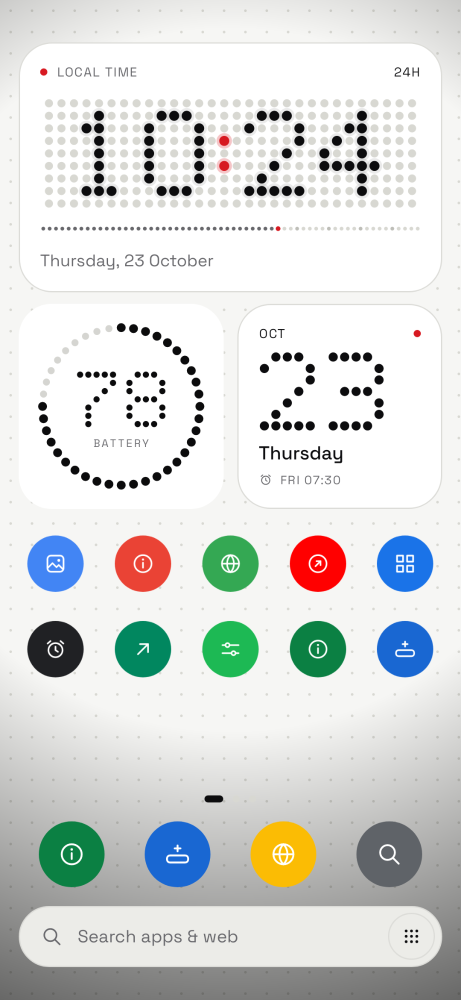
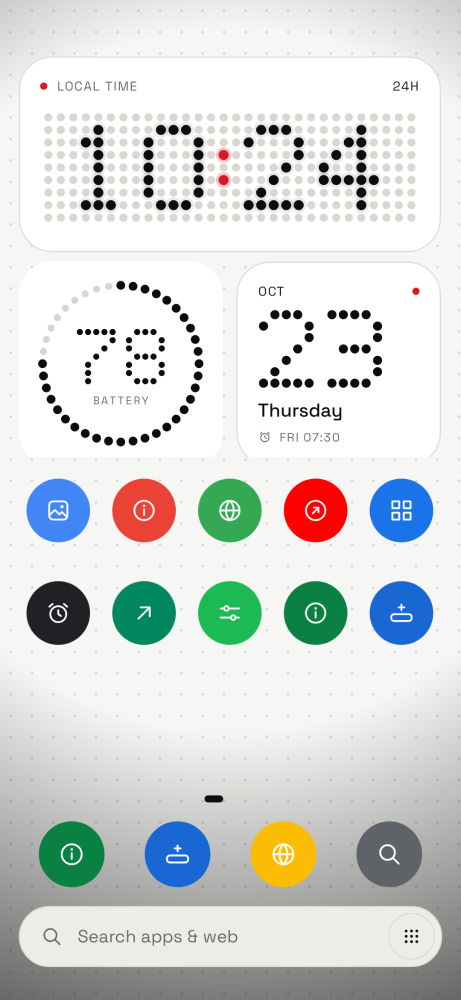
test: fix Paparazzi page fixtures (missing page size, clipped rows) and re-record snapshots

diff --git a/app/src/test/java/com/nothinglauncher/ScreensTest.kt b/app/src/test/java/com/nothinglauncher/ScreensTest.kt
@@ -156,12 +156,12 @@ class ScreensTest {
         val halfLp2 = LinearLayout.LayoutParams(0, ViewGroup.LayoutParams.WRAP_CONTENT, 1f).apply { marginStart = (6 * density).toInt() }
         row.addView(batB.root, halfLp1)
         row.addView(calB.root, halfLp2)
-        pageB.cellLayout.addView(row, CellLayout.LayoutParams(0, 2, columns, 1))
+        pageB.cellLayout.addView(row, CellLayout.LayoutParams(0, 2, columns, 2))
 
         val all = apps(style)
         all.take(columns * 2).forEachIndexed { index, app ->
             val col = index % columns
-            val r = 3 + (index / columns)
+            val r = 4 + (index / columns)
             val appB = ItemAppBinding.inflate(LayoutInflater.from(context), pageB.cellLayout, false)
             appB.appIcon.setImageDrawable(app.icon)
             appB.appLabel.text = app.label
@@ -193,6 +193,7 @@ class ScreensTest {
         b.bottomBar.updatePadding(bottom = dp(28))
 
         val pageB = ItemWorkspacePageBinding.inflate(LayoutInflater.from(context))
+        pageB.root.layoutParams = ViewGroup.LayoutParams(ViewGroup.LayoutParams.MATCH_PARENT, ViewGroup.LayoutParams.MATCH_PARENT)
         pageB.pageContent.updatePadding(top = dp(12))
 
         val clockB = WidgetClockBinding.inflate(LayoutInflater.from(context), pageB.cellLayout, false)
@@ -221,6 +222,7 @@ class ScreensTest {
         b.bottomBar.updatePadding(bottom = dp(16 + 12))
 
         val pageB = ItemWorkspacePageBinding.inflate(LayoutInflater.from(context))
+        pageB.root.layoutParams = ViewGroup.LayoutParams(ViewGroup.LayoutParams.MATCH_PARENT, ViewGroup.LayoutParams.MATCH_PARENT)
         pageB.cellLayout.countX = 4
 
         val weatherB = WidgetWeatherBinding.inflate(LayoutInflater.from(context), pageB.cellLayout, false)
@@ -229,14 +231,14 @@ class ScreensTest {
         val togB = WidgetQuickTogglesBinding.inflate(LayoutInflater.from(context), pageB.cellLayout, false)
         val accent = ContextCompat.getColor(context, R.color.nothing_red)
         togB.togglesDot.background?.mutate()?.setTint(accent)
-        pageB.cellLayout.addView(togB.root, CellLayout.LayoutParams(0, 1, 4, 1))
+        pageB.cellLayout.addView(togB.root, CellLayout.LayoutParams(0, 1, 4, 2))
 
         val all = apps()
         all.subList(12, 16).forEachIndexed { col, app ->
             val appB = ItemAppBinding.inflate(LayoutInflater.from(context), pageB.cellLayout, false)
             appB.appIcon.setImageDrawable(app.icon)
             appB.appLabel.text = app.label
-            pageB.cellLayout.addView(appB.root, CellLayout.LayoutParams(col, 2, 1, 1))
+            pageB.cellLayout.addView(appB.root, CellLayout.LayoutParams(col, 3, 1, 1))
         }
 
         b.workspaceRecycler.layoutManager = LinearLayoutManager(context, LinearLayoutManager.HORIZONTAL, false)
@@ -258,6 +260,7 @@ class ScreensTest {
         b.bottomBar.updatePadding(bottom = dp(16 + 12))
 
         val pageB = ItemWorkspacePageBinding.inflate(LayoutInflater.from(context))
+        pageB.root.layoutParams = ViewGroup.LayoutParams(ViewGroup.LayoutParams.MATCH_PARENT, ViewGroup.LayoutParams.MATCH_PARENT)
         pageB.cellLayout.countX = 4
 
         val stB = WidgetScreenTimeBinding.inflate(LayoutInflater.from(context), pageB.cellLayout, false)
